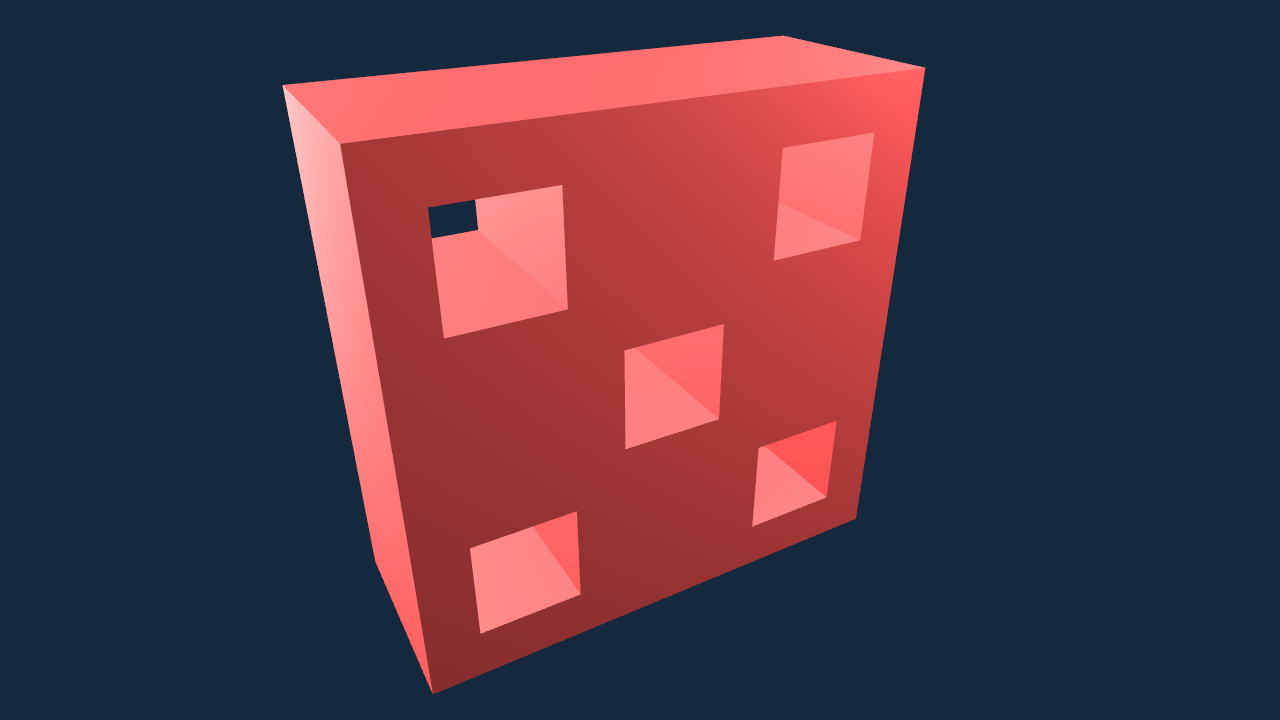
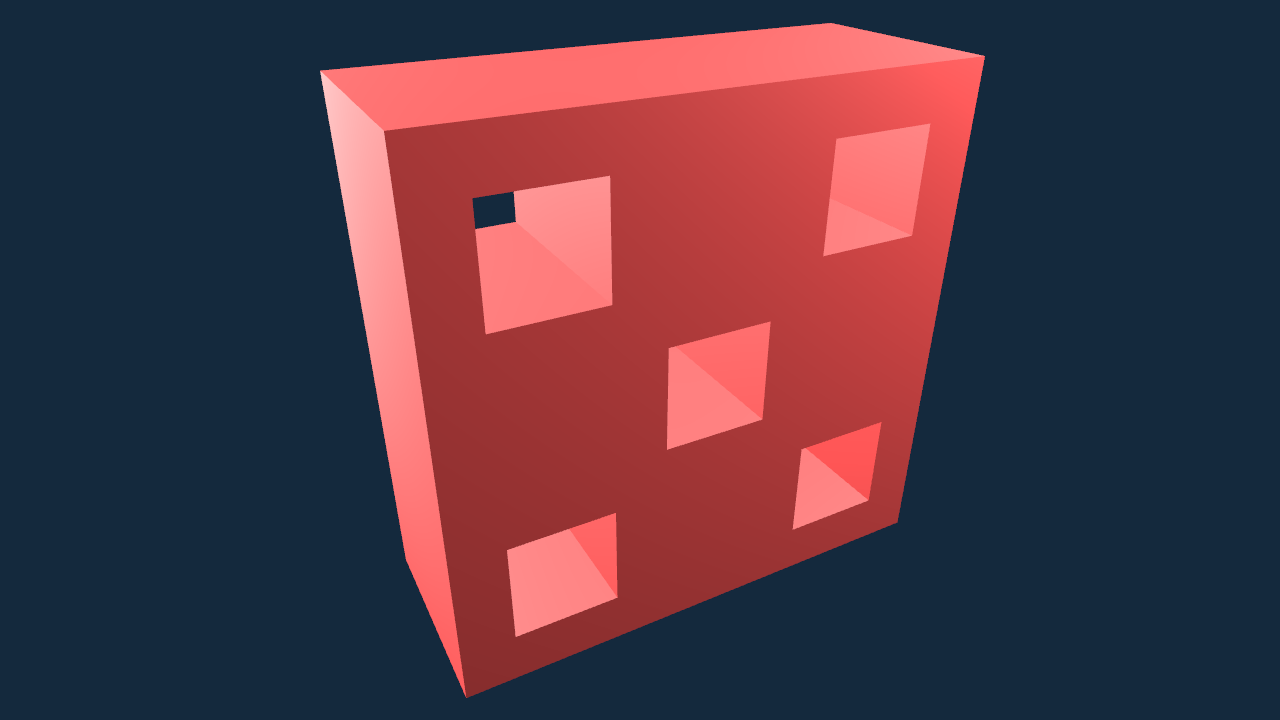
change context version to 4.0

Changed region(s): [[0.2188, 0.0306, 0.7812, 0.9778], [0.4688, 0.4583, 0.625, 0.6417]]

diff --git a/src/utility/Camera.cpp b/src/utility/Camera.cpp
@@ -4,7 +4,7 @@
 #include <glm/gtc/matrix_transform.hpp>
 
 static double scoll = 0;
-static void ScrollCallback(GLFWwindow* window, double x, double y) {
+static void ScrollCallback(GLFWwindow* /*window*/, double /*x*/, double y) {
 	scoll = y;
 }
 
@@ -37,17 +37,18 @@ Camera::Camera(GLFWwindow *window, int window_w, int window_h, double time)
 glm::mat4 Camera::Update(double time) {
 	fix_.Update([this]{ // call this lambda when toggle `fix_` turn on
 		vp_ = glm::mat4(
-			1.187824, -0.546560, -0.429420, -0.428562,
-			0.000000, 2.134668, -0.468028, -0.467093,
-			-0.658199, -0.986354, -0.774956, -0.773407,
-			0.029338, 0.094435, 3.050498, 3.244203
+			1.196924, 0.562701, 0.411706, 0.410883,
+			0.000000, 2.099883, -0.494392, -0.493404,
+			0.641501, -1.049898, -0.768168, -0.766634,
+			0.237233, -0.005142, 2.940655, 3.134580
 		);
 		v_ = glm::mat4(
-			0.874689, -0.226393, 0.428562, 0.000000,
-			0.000000, 0.884208, 0.467093, 0.000000,
-			-0.484684, -0.408561, 0.773407, 0.000000,
-			0.021604, 0.039116, -3.244203, 1.000000
+			0.881391, 0.233078, -0.410883, 0.000000,
+			0.000000, 0.869800, 0.493404, 0.000000,
+			0.472388, -0.434882, 0.766634, 0.000000,
+			0.174693, -0.002130, -3.134580, 1.000000
 		);
+
 	}, [this]{ // call this lambda when toggle `fix_` turn off
 		glfwGetCursorPos(window_, &x_, &y_);
 	});

diff --git a/src/utility/OGL.cpp b/src/utility/OGL.cpp
@@ -20,7 +20,7 @@ GLFWwindow* OGL::InitGLFW(const char *window_title, int window_w, int window_h) 
 	if(!glfwInit()) exit(EXIT_FAILURE);
 	glfwWindowHint(GLFW_SAMPLES, 4);
 	glfwWindowHint(GLFW_CONTEXT_VERSION_MAJOR, 4);
-	glfwWindowHint(GLFW_CONTEXT_VERSION_MINOR, 5);
+	glfwWindowHint(GLFW_CONTEXT_VERSION_MINOR, 0);
 	glfwWindowHint(GLFW_OPENGL_PROFILE, GLFW_OPENGL_CORE_PROFILE);
 	glfwWindowHint(GLFW_RESIZABLE, GLFW_FALSE);
 	glfwWindowHint(GLFW_DECORATED, GLFW_FALSE);
@@ -39,7 +39,7 @@ GLFWwindow* OGL::InitGLFW(const char *window_title, int window_w, int window_h) 
 		exit(EXIT_FAILURE);
 	}
 
-	glfwSwapInterval(1);
+	// glfwSwapInterval(1);
 	return window_;
 }
 
